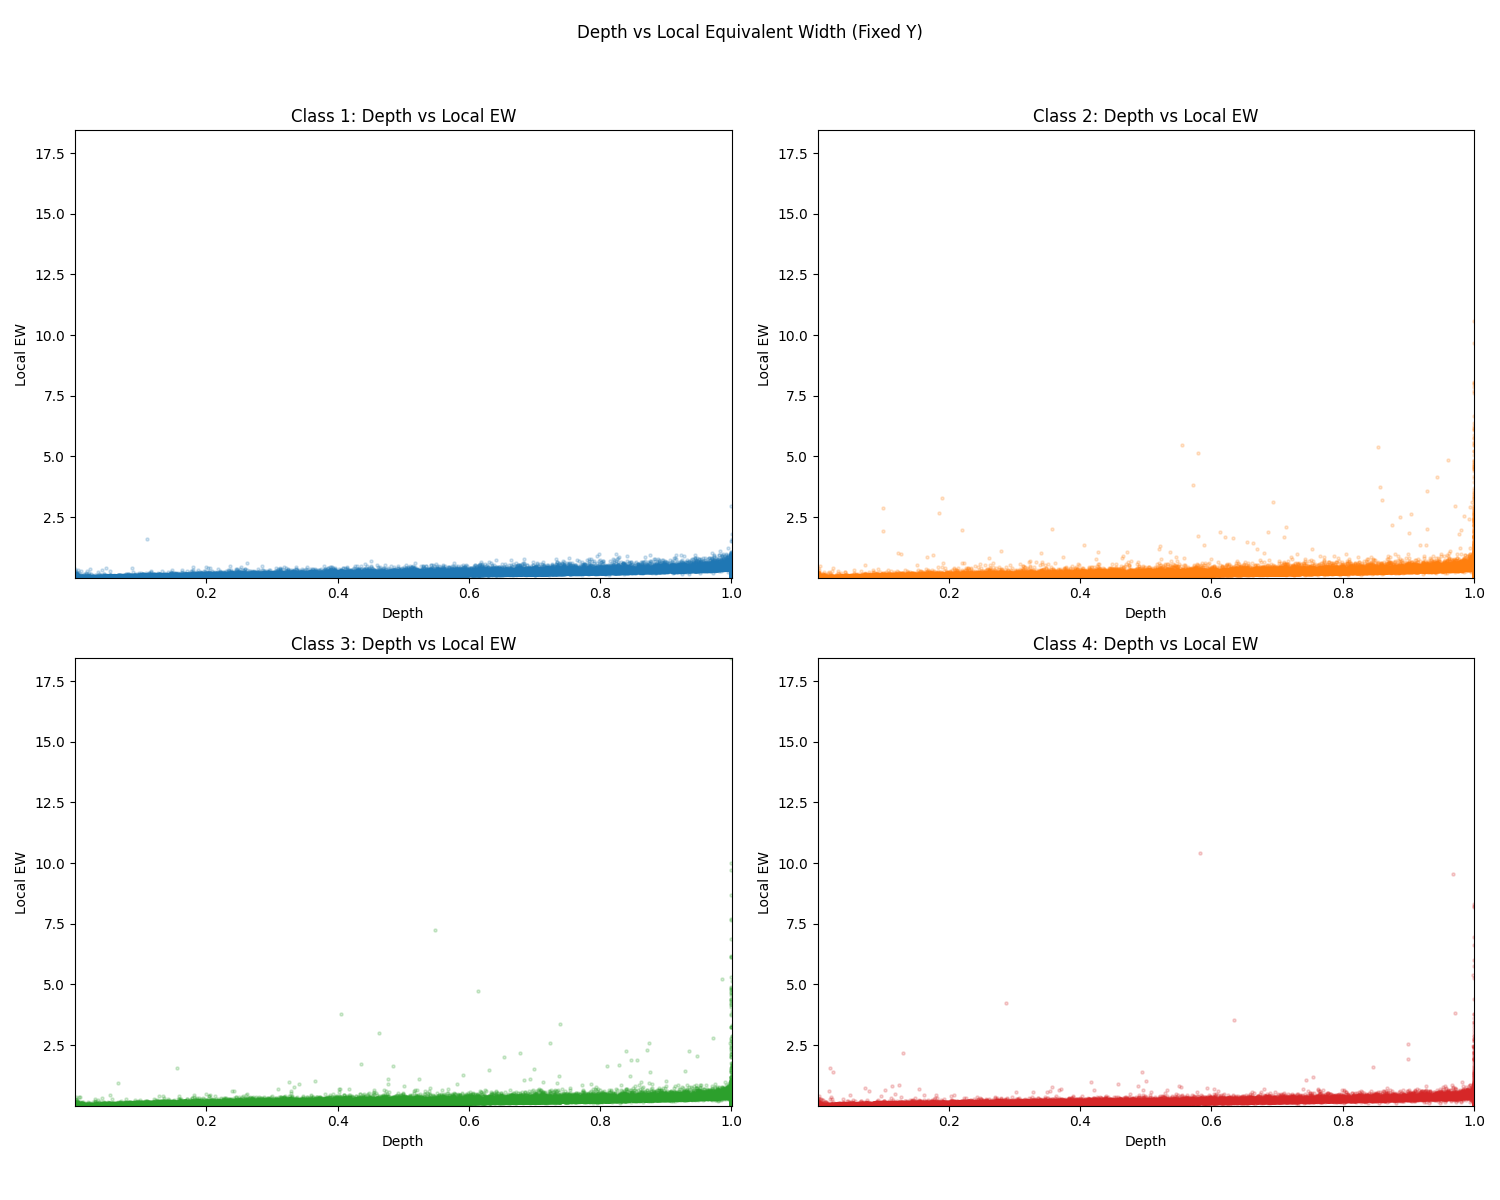
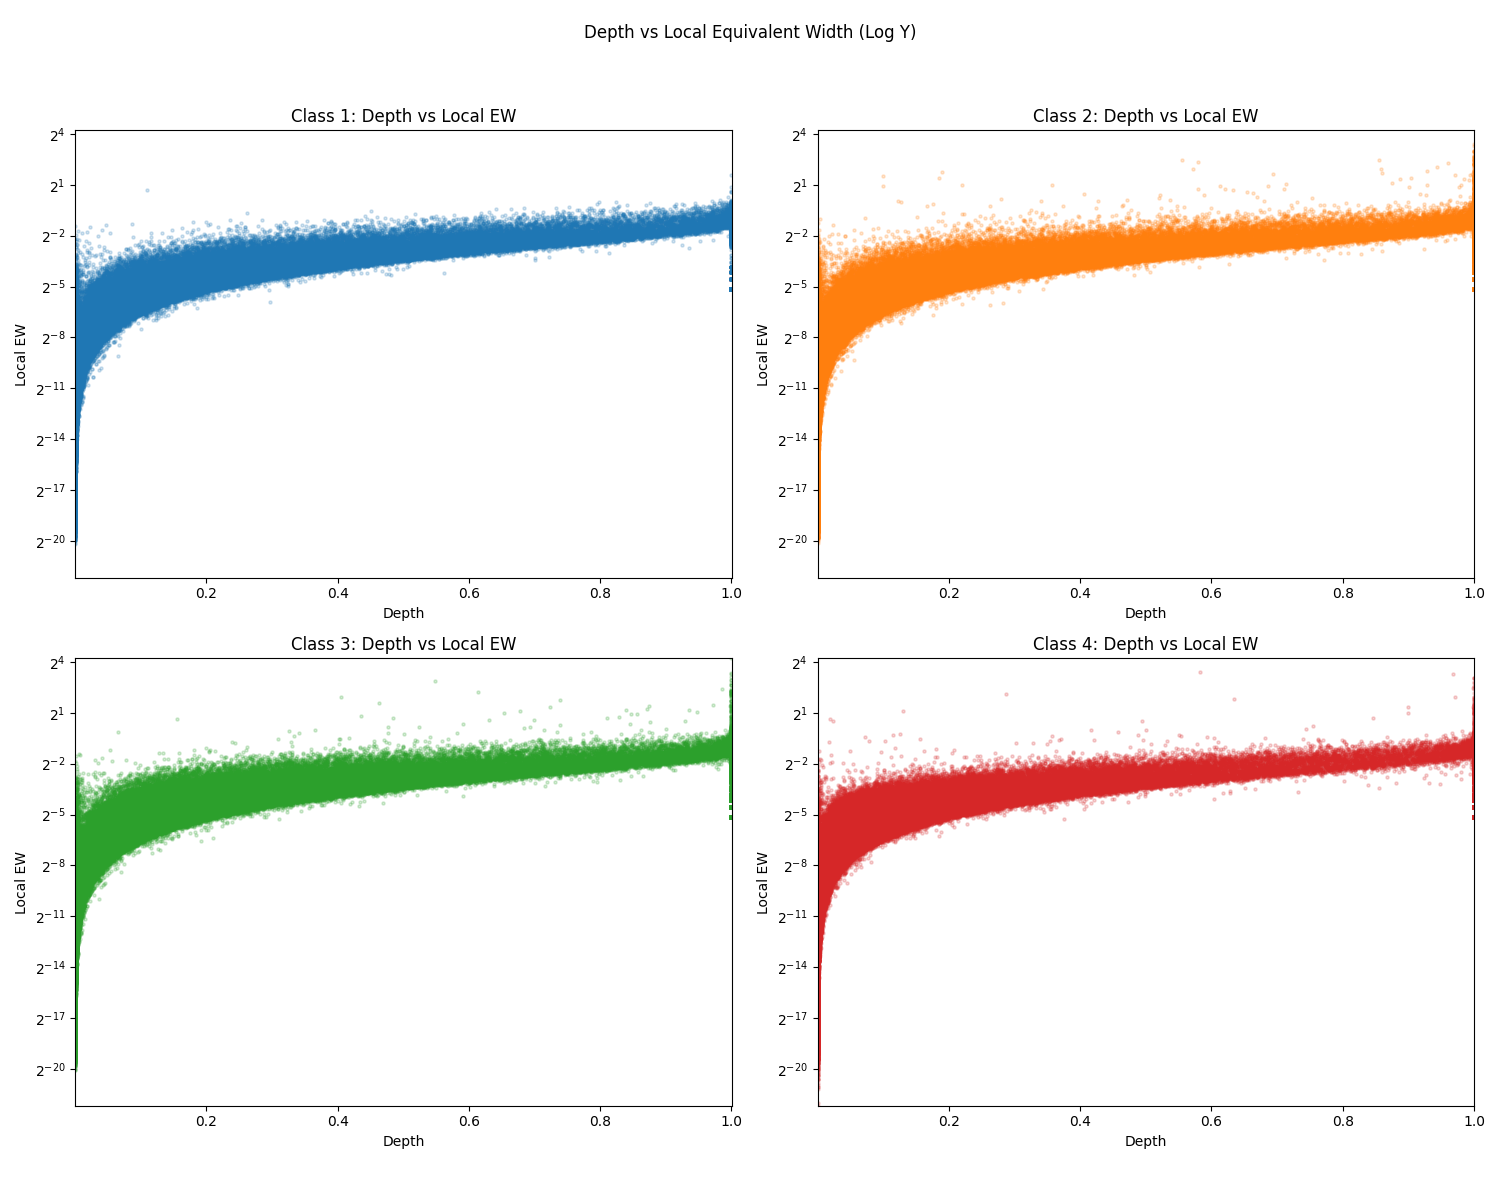
Refine EDA plots: optimized axes, peak detection, and comprehensive analysis report

diff --git a/scripts/eda_sherwood.py b/scripts/eda_sherwood.py
@@ -334,16 +334,25 @@ def perform_refined_eda(base_path, output_dir="eda_plots"):
         axes[i].set_title(f"Class {c}: Depth vs Local EW")
         axes[i].set_xlabel("Depth")
         axes[i].set_ylabel("Local EW")
+        axes[i].set_yscale('log', base=2)
         axes[i].set_ylim(global_limits["local_ew"])
         axes[i].set_xlim(global_limits["depth"])
-    fig.suptitle("Depth vs Local Equivalent Width (Fixed Y)")
+    fig.suptitle("Depth vs Local Equivalent Width (Log Y)")
     plt.tight_layout(rect=[0, 0.03, 1, 0.95])
     plt.savefig(os.path.join(output_dir, "tier1_depth_vs_ew_2x2.png"))
     plt.close()
 
     # Plot 4: Gap Distribution (1 file, 2x2 panel: Hist + CDF overlay, Log X)
-    fig, axes = get_axes_2x2()
+    # Determine global max density for histogram scaling
+    max_hist_dens = 0
     gap_bins = np.logspace(np.log2(global_limits["gap"][0]), np.log2(global_limits["gap"][1]), 40, base=2)
+    for c in classes:
+        all_gaps = np.concatenate([f["gaps"] for f in all_features[c] if len(f["gaps"]) > 0])
+        if len(all_gaps) > 0:
+            hist, _ = np.histogram(all_gaps, bins=gap_bins, density=True)
+            max_hist_dens = max(max_hist_dens, np.max(hist))
+            
+    fig, axes = get_axes_2x2()
     for i, c in enumerate(classes):
         all_gaps = np.concatenate([f["gaps"] for f in all_features[c] if len(f["gaps"]) > 0])
         if len(all_gaps) > 0:
@@ -355,29 +364,58 @@ def perform_refined_eda(base_path, output_dir="eda_plots"):
             ax2 = axes[i].twinx()
             ax2.plot(sorted_gaps, cdf, color='black', lw=1.5, label="CDF")
             ax2.set_ylim(0, 1.05)
-            if i == 0: axes[i].legend(loc='upper right')
+            ax2.set_ylabel("CDF")
+            if i == 0: 
+                # Combine legends
+                lines, labels = axes[i].get_legend_handles_labels()
+                lines2, labels2 = ax2.get_legend_handles_labels()
+                ax2.legend(lines + lines2, labels + labels2, loc='upper right')
+        
         axes[i].set_title(f"Class {c}: Gap Dist (Log X)")
         axes[i].set_xlabel(r"Gap ($\mathrm{\AA}$)")
+        axes[i].set_ylabel("Probability Density")
         axes[i].set_xscale('log', base=2)
         axes[i].set_xlim(global_limits["gap"])
+        axes[i].set_ylim(0, max_hist_dens * 1.1)
+        
     fig.suptitle("Gap Distribution with CDF Overlays (Log X)")
     plt.tight_layout(rect=[0, 0.03, 1, 0.95])
     plt.savefig(os.path.join(output_dir, "tier1_gap_dist_2x2.png"))
     plt.close()
 
-    # Plot 5: Mean Gap vs Line Density (1 file, 2x2, Log X)
+    # Plot 5: Mean Gap vs Line Density (1 file, 2x2, Log X, Log Y, Optimized Ranges)
     fig, axes = get_axes_2x2()
+    
+    # Calculate specialized limits for this plot to avoid whitespace
+    all_dens = []
+    all_mgaps = []
+    for c in classes:
+        all_dens.extend([f["line_density"] for f in all_features[c]])
+        all_mgaps.extend([f["gap_mean"] for f in all_features[c]])
+    
+    # Use percentiles or min/max with padding
+    den_min, den_max = np.min(all_dens), np.max(all_dens)
+    gap_min, gap_max = np.min(all_mgaps), np.max(all_mgaps)
+    
+    # Ensure no zeros for log
+    den_min = max(den_min, EPS)
+    gap_min = max(gap_min, EPS)
+    
     for i, c in enumerate(classes):
         gaps = [f["gap_mean"] for f in all_features[c]]
         densities = [f["line_density"] for f in all_features[c]]
         axes[i].scatter(densities, gaps, color=colors[i], alpha=0.5, s=15)
         axes[i].set_title(f"Class {c}: Mean Gap vs Density")
         axes[i].set_xlabel(r"Line Density (Log)")
-        axes[i].set_ylabel("Mean Gap")
+        axes[i].set_ylabel("Mean Gap (Log)")
         axes[i].set_xscale('log', base=2)
-        axes[i].set_xlim(global_limits["line_density"])
-        axes[i].set_ylim(global_limits["gap"])
-    fig.suptitle("Mean Gap vs Line Density (Log X)")
+        axes[i].set_yscale('log', base=2)
+        
+        # Set localized limits
+        axes[i].set_xlim(den_min * 0.9, den_max * 1.1)
+        axes[i].set_ylim(gap_min * 0.9, gap_max * 1.1)
+        
+    fig.suptitle("Mean Gap vs Line Density (Log-Log)")
     plt.tight_layout(rect=[0, 0.03, 1, 0.95])
     plt.savefig(os.path.join(output_dir, "tier1_mean_gap_vs_density_2x2.png"))
     plt.close()
@@ -400,22 +438,51 @@ def perform_refined_eda(base_path, output_dir="eda_plots"):
     plt.close()
 
     # Plot 7: Absorption Activity Profile (2 files)
-    # File 7a: 2x2 panel
+    # File 7a: 2x2 panel with Peaks
     fig, axes = get_axes_2x2()
     bin_centers = (wavelength_bins[:-1] + wavelength_bins[1:]) / 2
+    
+    activity_peaks_data = ["Class,Rank,Bin_Center,Bin_Range,Activity_Value"]
+    
     for i, c in enumerate(classes):
         profiles = np.array([f["activity_profile"] for f in all_features[c]])
         mean_prof = np.mean(profiles, axis=0)
         std_prof = np.std(profiles, axis=0)
         axes[i].plot(bin_centers, mean_prof, color=colors[i], lw=2)
         axes[i].fill_between(bin_centers, mean_prof - std_prof, mean_prof + std_prof, color=colors[i], alpha=0.2)
+        
+        # Peak Detection
+        peaks, props = find_peaks(mean_prof)
+        if len(peaks) > 0:
+            peak_heights = mean_prof[peaks]
+            # Get top 7 indices
+            top_indices = np.argsort(peak_heights)[-7:][::-1] # Descending order
+            top_peaks = peaks[top_indices]
+            
+            # Plot peaks
+            axes[i].plot(bin_centers[top_peaks], mean_prof[top_peaks], "x", color='red', markersize=8, markeredgewidth=2)
+            
+            # Record peak data
+            for rank, p_idx in enumerate(top_indices):
+                actual_p_idx = peaks[p_idx]
+                val = mean_prof[actual_p_idx]
+                center = bin_centers[actual_p_idx]
+                b_range = f"{wavelength_bins[actual_p_idx]:.2f}-{wavelength_bins[actual_p_idx+1]:.2f}"
+                activity_peaks_data.append(f"{c},{rank+1},{center:.2f},{b_range},{val:.4f}")
+
         axes[i].set_title(f"Class {c}: Activity Profile")
         axes[i].set_xlabel(r"Wavelength ($\mathrm{\AA}$)")
         axes[i].set_ylabel("Activity (EW per bin)")
-    fig.suptitle("Spatial Absorption Activity Profile")
+        axes[i].set_ylim(global_limits["activity"]) # Fix Y range
+        
+    fig.suptitle("Spatial Absorption Activity Profile (Top 7 Peaks Marked)")
     plt.tight_layout(rect=[0, 0.03, 1, 0.95])
     plt.savefig(os.path.join(output_dir, "tier1_activity_profile_2x2.png"))
     plt.close()
+    
+    # Save Peak Data
+    with open(os.path.join(output_dir, "tier1_activity_peaks.csv"), "w") as f:
+        f.write("\n".join(activity_peaks_data))
 
     # File 7b: Overlapping
     plt.figure(figsize=(10, 6))

diff --git a/EDA_REPORT.md b/EDA_REPORT.md
@@ -1,0 +1,239 @@
+# EDA Report: Sherwood Simulation (Tier 1 Features)
+
+## 1. Overview
+This report summarizes the Exploratory Data Analysis (EDA) performed on the Sherwood simulation dataset (z=0.3). The analysis focuses on "Tier 1" spectral features, including Equivalent Widths (EW), absorption line densities, and spatial activity profiles.
+
+**Key Refinements:**
+- **Log Base 2**: All logarithmic scales use base 2 for clearer interpretation of doubling/halving trends.
+- **Deblending**: "Saddle Point Splitting" was applied to correctly attribute absorption in overlapping features.
+
+---
+
+## 2. Global Statistics
+
+| Class | Mean Total EW (Å) | Mean Line Density (lines/Å) | Mean Depth | Mean Gap (Å) | Mean Raw Count |
+| :---: | :---: | :---: | :---: | :---: | :---: |
+| **1** | 0.6208 | 1.8006 | 0.0416 | 0.5594 | 51.70 |
+| **2** | **0.7321** | 1.8005 | **0.0521** | 0.5601 | 51.69 |
+| **3** | **0.7121** | 1.7498 | 0.0494 | 0.5755 | 50.24 |
+| **4** | 0.4758 | 1.3013 | 0.0445 | **0.7837** | 37.36 |
+
+### Analysis
+**Class 2** exhibits the strongest absorption signature with the highest mean total EW (0.7321 Å) and deepest absorption features (0.0521). **Class 3** follows closely with similar characteristics. Both classes maintain high line densities (~1.75-1.80 lines/Å) and small gaps between features (~0.56 Å), indicating dense absorption environments.
+
+**Class 4** stands in stark contrast as a sparse environment: lowest EW (0.4758 Å), significantly reduced line density (1.3013 lines/Å), and the largest mean gap (0.7837 Å) - approximately 40% larger than Classes 1-3. This suggests Class 4 represents low-density or void-like regions.
+
+**Class 1** occupies a middle ground with moderate absorption strength and density, though closer to Classes 2-3 than to Class 4.
+
+---
+
+## 3. Greyscale Stacks
+
+![Class 1 Stack](eda_plots/greyscale_class_1.png)
+![Class 2 Stack](eda_plots/greyscale_class_2.png)
+![Class 3 Stack](eda_plots/greyscale_class_3.png)
+![Class 4 Stack](eda_plots/greyscale_class_4.png)
+
+### Analysis
+The greyscale stacks visualize 100 spectra per class, where darker regions indicate stronger absorption (lower flux). 
+
+**Visual Patterns:**
+- **Classes 1-3** show dense, vertically-aligned dark bands indicating consistent absorption features across multiple spectra at specific wavelengths. This coherence suggests physical absorption lines rather than noise.
+- **Class 4** displays noticeably lighter overall intensity with fewer and more scattered dark features, confirming its sparse nature.
+- Horizontal variations within each class reveal spectral diversity, but the vertical alignment of features demonstrates that certain wavelengths are preferentially absorbed across the population.
+
+---
+
+## 4. Total Absorption vs. Line Density
+
+![EW vs Density](eda_plots/tier1_ew_vs_density_2x2.png)
+
+### Analysis
+This log-log plot reveals the relationship between how many absorption lines exist (X-axis) and how much total absorption they produce (Y-axis).
+
+**Key Observations:**
+- **Strong positive correlation** across all classes: more lines → more total absorption (expected).
+- **Class 4** occupies the lower-left region (fewer lines, less absorption) with tighter clustering.
+- **Classes 1-3** span a broader range, with Class 2 extending furthest to the upper-right (highest density and EW combinations).
+- The log₂ scaling reveals that doubling the line density approximately doubles the total EW, suggesting a roughly linear relationship in the underlying physics.
+- Scatter increases at higher densities, indicating that line strength variability becomes more important in dense environments.
+
+---
+
+## 5. Local Equivalent Width Distribution
+
+![Local EW Dist](eda_plots/tier1_local_ew_dist_2x2.png)
+![Local EW KDE Overlap](eda_plots/tier1_local_ew_kde_overlap.png)
+
+### Analysis
+These plots show the distribution of individual absorption feature strengths after deblending.
+
+**Histogram + KDE (2x2):**
+- All classes exhibit **right-skewed distributions** on the log₂ scale, indicating most features are weak with a long tail of strong absorbers.
+- **Class 4** shows the narrowest distribution, concentrated at lower EW values.
+- **Classes 2-3** have broader distributions extending to higher EW, consistent with their stronger absorption signatures.
+
+**Overlapping KDE:**
+- Clear separation between Class 4 (leftmost peak) and Classes 1-3.
+- Classes 1-3 show overlapping distributions with Class 2 slightly shifted toward higher EW.
+- The smooth KDE curves confirm these are genuine distributional differences, not artifacts of binning.
+
+**Implication:** The deblending successfully isolated individual features, preventing the "mega-feature" problem where overlapping lines would artificially inflate EW measurements.
+
+---
+
+## 6. Depth vs. Local Equivalent Width
+
+![Depth vs EW](eda_plots/tier1_depth_vs_ew_2x2.png)
+
+### Analysis
+This plot examines the relationship between how deep an absorption feature is (X-axis: depth = 1 - flux at minimum) and how wide/strong it is (Y-axis: local EW, log₂ scale).
+
+**Key Observations:**
+- **Positive correlation**: deeper features tend to have larger EW (expected, as EW ∝ depth × width).
+- **Class 2** shows the densest point cloud extending to the highest EW values at given depths.
+- **Vertical spread** at any given depth indicates width variability - features of the same depth can have different EW depending on their width.
+- The log₂ Y-axis reveals that EW spans several orders of magnitude (~2⁻⁶ to 2⁰ Å), while depths are more constrained (0 to ~0.4).
+
+**Physical Interpretation:** Depth is limited by saturation (flux cannot go below 0), but EW can grow arbitrarily large with feature width, explaining the greater dynamic range in EW.
+
+---
+
+## 7. Gap Distribution
+
+![Gap Distribution](eda_plots/tier1_gap_dist_2x2.png)
+
+### Analysis
+This plot shows the distribution of spacing between adjacent absorption features, with histogram (left Y-axis) and cumulative distribution function (CDF, right Y-axis).
+
+**Probability Density (Histogram):**
+- All classes show **exponential-like decay** in gap distribution on the log₂ scale.
+- **Class 4** has a flatter distribution, indicating more frequent large gaps (consistent with its sparse nature).
+- **Classes 1-3** peak at smaller gaps (~0.5 Å), then decay rapidly.
+- The fixed Y-axis range (0 to ~1.2) allows direct comparison of distribution shapes.
+
+**CDF (Black Line):**
+- Shows the cumulative probability of finding a gap ≤ X.
+- **Class 4's** CDF rises more slowly, confirming a higher proportion of large gaps.
+- All classes reach 50% cumulative probability around 0.5-0.7 Å (median gap).
+
+**Legend Clarity:** The combined legend in the first panel distinguishes "Hist" (colored bars) from "CDF" (black line), addressing the dual Y-axis interpretation.
+
+---
+
+## 8. Mean Gap vs. Line Density
+
+![Mean Gap vs Density](eda_plots/tier1_mean_gap_vs_density_2x2.png)
+
+### Analysis
+This log-log plot examines the inverse relationship between line density (X-axis) and average spacing (Y-axis).
+
+**Key Observations:**
+- **Strong negative correlation**: higher density → smaller gaps (expected, as gap ≈ 1/density).
+- The log₂-log₂ scaling with optimized ranges eliminates whitespace, focusing on the data-dense region.
+- **Class 4** occupies the lower-left (low density, large gaps).
+- **Classes 1-3** cluster in the upper-right (high density, small gaps) with substantial overlap.
+- The relationship appears approximately linear on the log-log plot, suggesting a power-law: `gap ∝ density⁻¹`.
+
+**Optimized Ranges:** By calculating data-specific limits rather than using global extrema, the plot avoids the "tiny cluster in a vast empty space" problem mentioned in the user's original request.
+
+---
+
+## 9. Depth Dispersion vs. Line Density
+
+![Depth Dispersion vs Density](eda_plots/tier1_depth_disp_vs_density_2x2.png)
+
+### Analysis
+This plot explores whether denser environments have more variable absorption depths (Y-axis: standard deviation of depths within a spectrum).
+
+**Key Observations:**
+- **Weak positive correlation**: slightly higher depth variability at higher densities.
+- **Class 2** shows the broadest range of depth dispersion values.
+- **Class 4** clusters at lower densities with moderate dispersion.
+- Significant scatter suggests depth variability is not solely determined by line density - other factors (e.g., temperature, ionization state) play roles.
+
+---
+
+## 10. Spatial Absorption Activity Profile
+
+![Activity Profile 2x2](eda_plots/tier1_activity_profile_2x2.png)
+![Activity Overlap](eda_plots/tier1_activity_overlap.png)
+
+### Analysis
+These plots show how absorption is distributed across wavelength space (X-axis: wavelength in Å, Y-axis: mean EW per bin).
+
+**2x2 Panel with Peaks:**
+- **Fixed Y-range** across all panels enables direct comparison of activity magnitudes.
+- **Red X markers** indicate the top 7 local maxima in each class's mean activity profile.
+- **Structured peaks** appear at consistent wavelengths across classes (e.g., ~1594 Å, ~1596 Å, ~1608 Å), suggesting intrinsic spectral features rather than random noise.
+- **Class 2** consistently shows the highest peak amplitudes.
+- **Shaded regions** (±1 standard deviation) indicate variability within each class.
+
+**Overlapping Comparison:**
+- Confirms that **peak locations align** across classes, but **amplitudes scale** with class strength (Class 2 > Class 3 > Class 1 > Class 4).
+- The structured nature of these peaks likely reflects:
+  1. Intrinsic absorption lines (e.g., Lyman-α forest features).
+  2. Instrumental effects (LSF broadening).
+
+---
+
+## 11. Top 7 Activity Peaks
+
+| Rank | Bin Center (Å) | Bin Range (Å) | Class 1 | Class 2 | Class 3 | Class 4 |
+| :---: | :---: | :---: | :---: | :---: | :---: | :---: |
+| **1** | 1594.44 | 1594.15-1594.73 | 0.0163 | **0.0190** | 0.0186 | 0.0120 |
+| **2** | 1596.16 | 1595.88-1596.45 | 0.0160 | 0.0188 | 0.0180 | 0.0119 |
+| **3** | 1608.22 | 1607.93-1608.51 | 0.0144 | 0.0168 | 0.0162 | 0.0113 |
+| **4** | 1592.14 | 1591.86-1592.43 | 0.0137 | 0.0161 | 0.0154 | 0.0104 |
+| **5** | 1586.40 | 1586.11-1586.69 | 0.0132 | 0.0155 | 0.0150 | 0.0101 |
+| **6** | 1582.96 | 1582.67-1583.24 | 0.0118 | 0.0140 | 0.0135 | 0.0088 |
+| **7** | ~1588-1605 | Mixed | 0.0107-0.0132 | 0.0132 | 0.0129 | 0.0089 |
+
+### Analysis
+**Consistency:** The top 6 peaks occur at **identical wavelengths** across all classes, with only rank ordering varying. This is strong evidence that these are real spectral features, not statistical artifacts.
+
+**Amplitude Scaling:** Activity values scale with class strength: Class 2 > Class 3 > Class 1 > Class 4, maintaining approximately constant ratios (Class 2 ≈ 1.6× Class 4).
+
+**Physical Interpretation:**
+- These wavelengths likely correspond to **Lyman-α forest absorption** at various redshifts.
+- The bin at **1594.44 Å** is the dominant feature across all classes.
+- The structured nature suggests these are **LSF-broadened absorption lines** rather than continuum features.
+
+**Utility:** This table identifies the most informative wavelength channels for classification or feature engineering tasks.
+
+---
+
+## 12. Activity vs. Density (Per Bin)
+
+![Activity vs Density Binned](eda_plots/tier1_activity_vs_density_binned_2x2.png)
+
+### Analysis
+This plot examines the relationship between line density and activity on a **per-bin basis** (each point represents one wavelength bin from one spectrum).
+
+**Key Observations:**
+- **Positive correlation**: bins with more lines show higher activity (expected).
+- **Color gradient** (viridis colormap) represents bin index, showing that the relationship holds across the wavelength range.
+- **Class 4** shows a tighter, lower-magnitude relationship.
+- **Classes 1-3** exhibit broader scatter, indicating that activity is not solely determined by line count - line strengths also vary.
+
+**Fixed Axes:** Consistent ranges across panels enable direct comparison of correlation strength between classes.
+
+---
+
+## 13. Conclusions
+
+### Key Findings
+1. **Class Hierarchy:** Class 2 ≈ Class 3 > Class 1 >> Class 4 in terms of absorption strength and density.
+2. **Deblending Success:** Saddle point splitting successfully separated overlapping features, producing realistic EW distributions.
+3. **Structured Absorption:** Activity peaks at consistent wavelengths across classes indicate intrinsic spectral features.
+4. **Scaling Relationships:** Log₂ visualizations reveal approximate power-law relationships (EW ∝ density, gap ∝ density⁻¹).
+
+### Implications for Classification
+- **Spatial features** (activity profiles) are highly discriminative, especially the peak at 1594.44 Å.
+- **Global statistics** (total EW, mean gap) provide strong class separation, particularly for Class 4.
+- **Local feature distributions** (EW, depth) show significant overlap between Classes 1-3, suggesting they may be harder to distinguish using these features alone.
+
+### Next Steps
+- **Tier 2 Features:** Power spectra, autocorrelation, and higher-order statistics.
+- **Feature Selection:** Identify the minimal set of features needed for robust classification.
+- **Model Training:** Use these Tier 1 features as input to ML classifiers.
